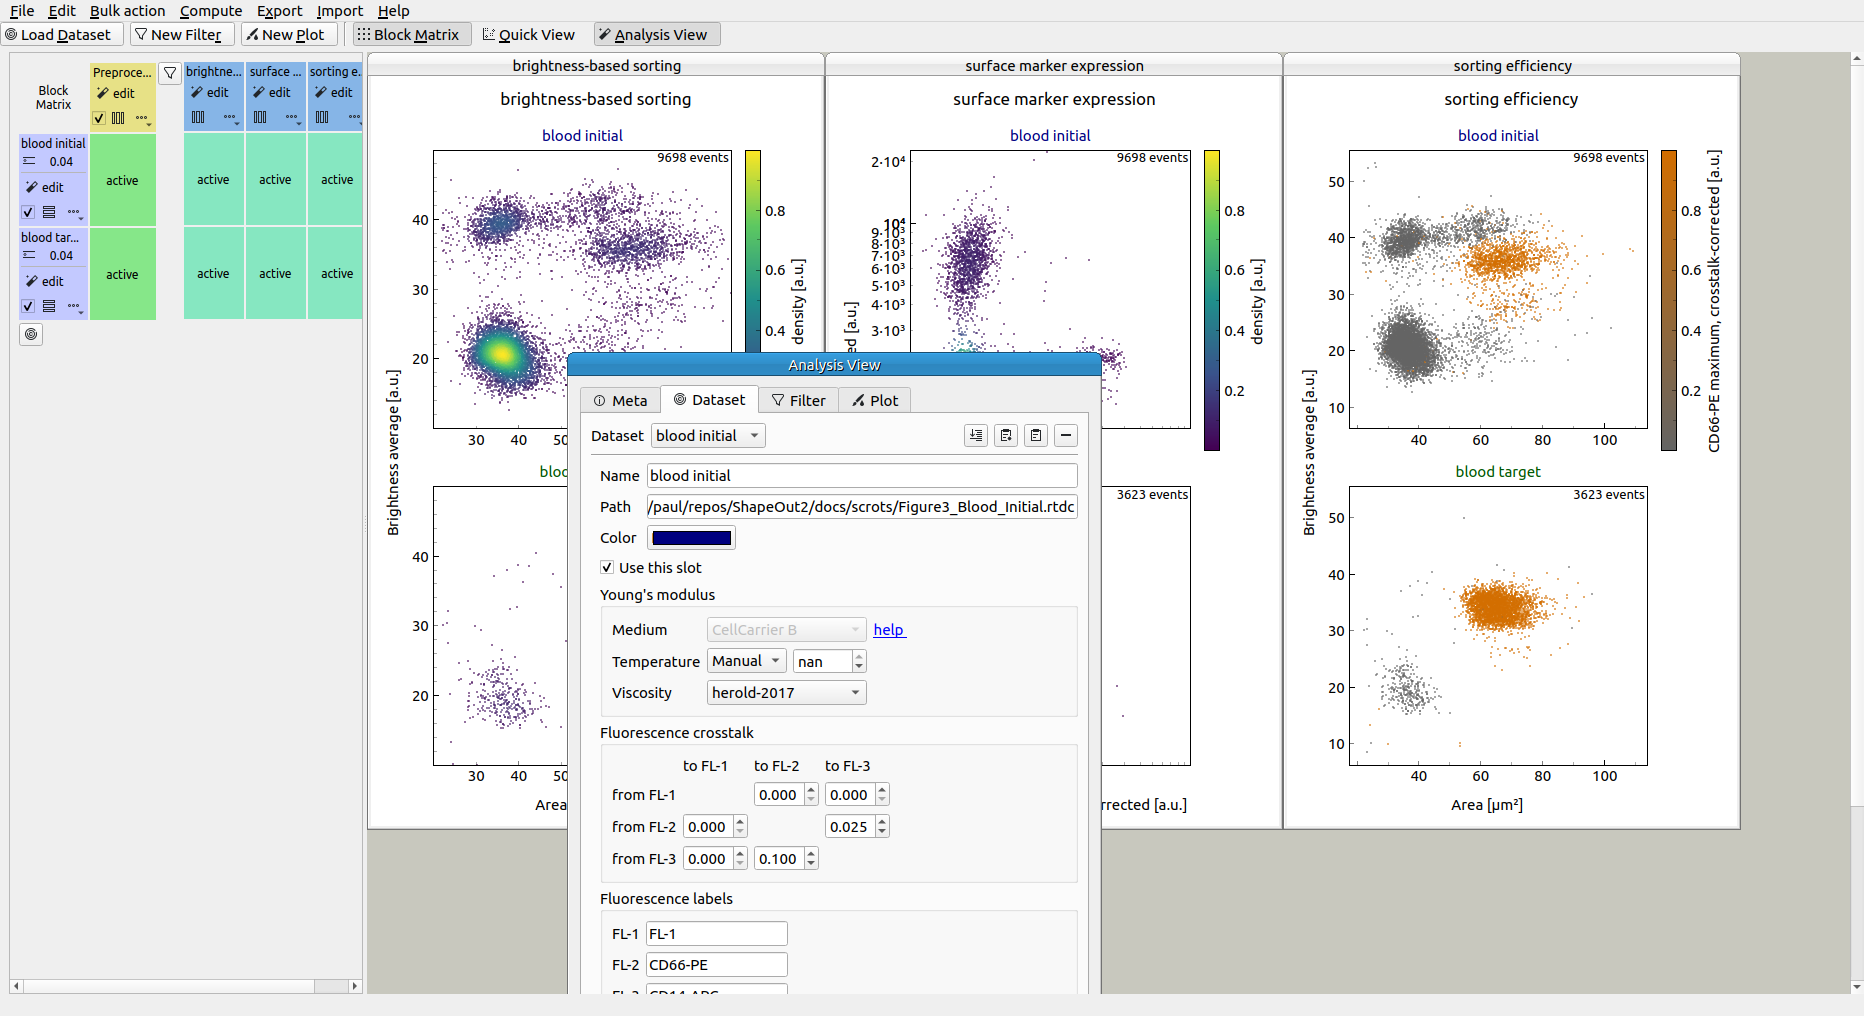
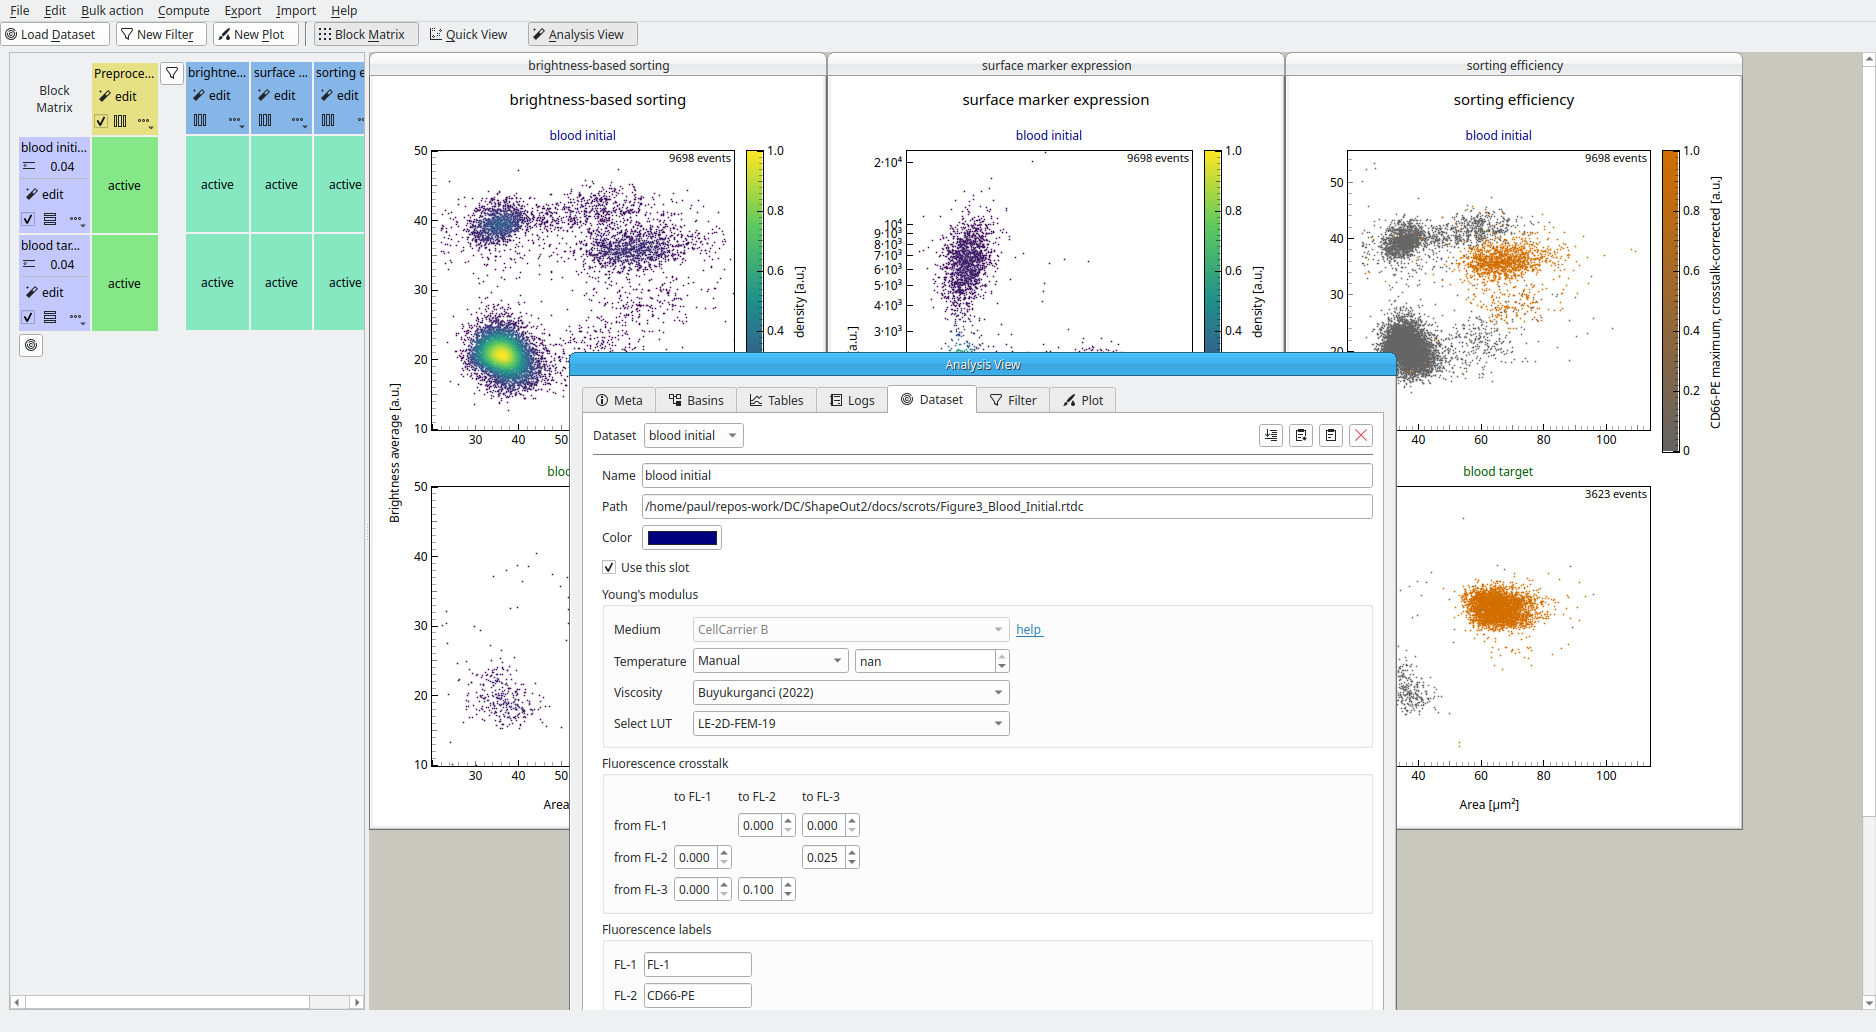
docs: refresh screenshots

diff --git a/docs/scrots/make_scrots_qg_emodulus.py b/docs/scrots/make_scrots_qg_emodulus.py
@@ -35,7 +35,6 @@ mw.reload_pipeline()
 mw.on_modify_slot(mw.pipeline.slot_ids[0])
 mw.widget_ana_view.repaint()
 wsl = mw.widget_ana_view.widget_slot
-wsl.comboBox_visc_model.setCurrentIndex(0)
 wsl.groupBox_emod.setFixedSize(420, 140)
 
 wsl.comboBox_medium.setCurrentIndex(
